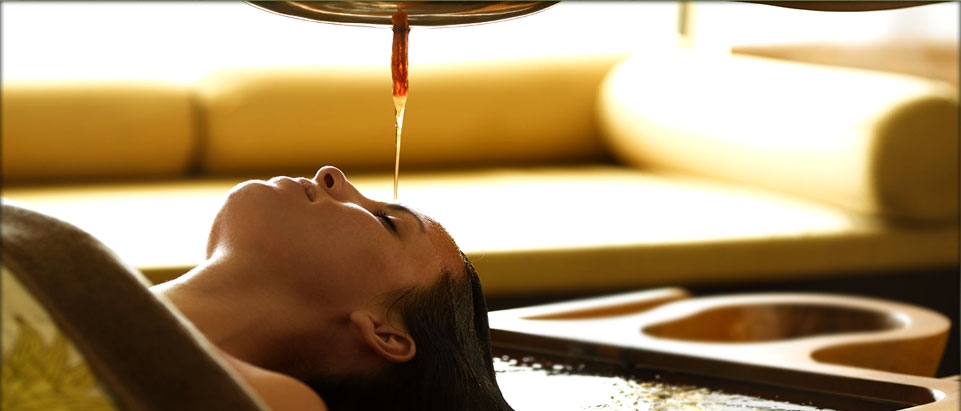
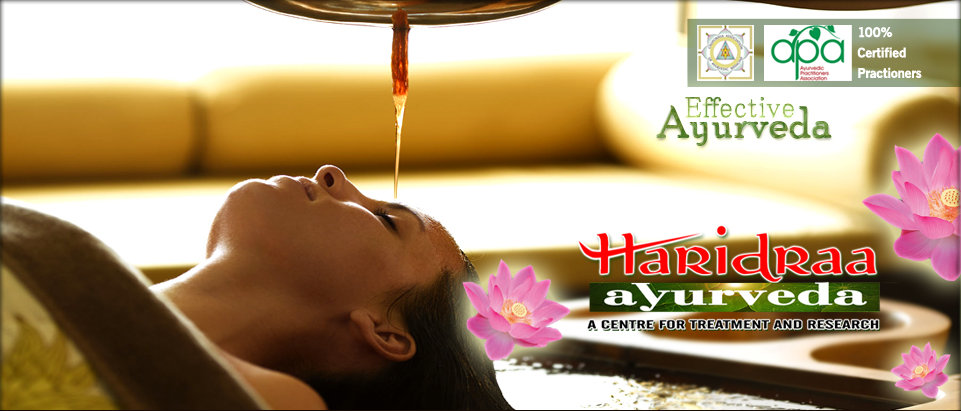
home slide modified

diff --git a/layouts/haridraa_home.html b/layouts/haridraa_home.html
@@ -48,11 +48,14 @@
 						<a href="images/home/slide/slide3.jpg"
 							>This is the third slide</a>
 					</li>
+
+					<li>
+						<a href="images/home/slide/slide4.jpg"
+							>This is the fourth slide</a>
+					</li>
 				</ol>
 
-  <div class="certification"></div>
-  <div class="effective_ayurveda"></div>
-  <div class="lotus"></div>
+
   <ul class="logo">
     <li> <a href="index.php" title="Haridraa Ayurveda"> <span>Haridraa Ayurveda</span> </a> </li>
   </ul>

diff --git a/css/home.css b/css/home.css
@@ -118,7 +118,7 @@ display:none;
 display:none;
 }
 #slideshow .logo li a{
-  background: url(/images/home/home_logo.png) no-repeat;
+  /* background: url(/images/home/home_logo.png) no-repeat; */
   width: 320px;
   height: 124px;
   display: block;
